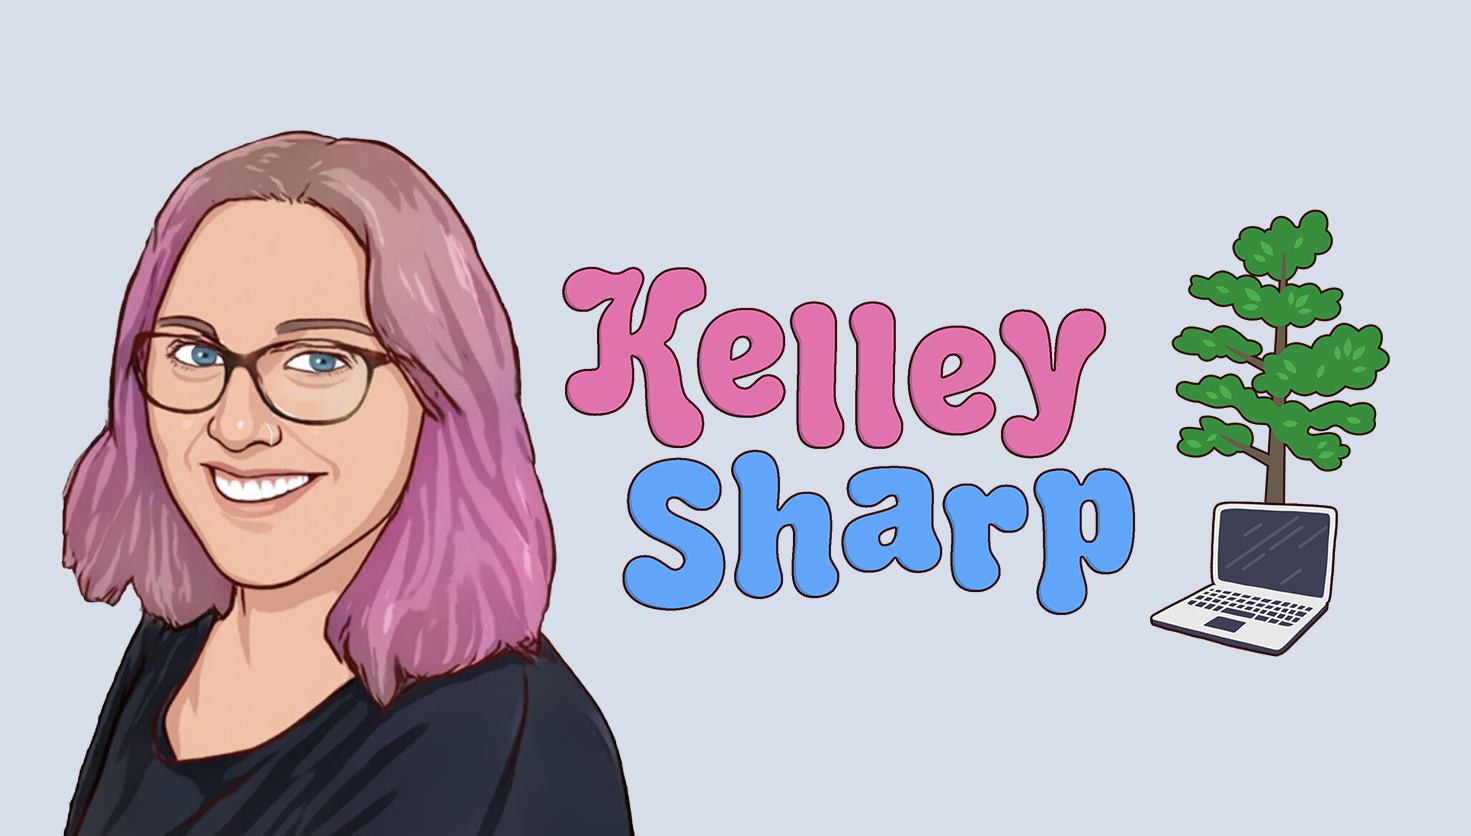
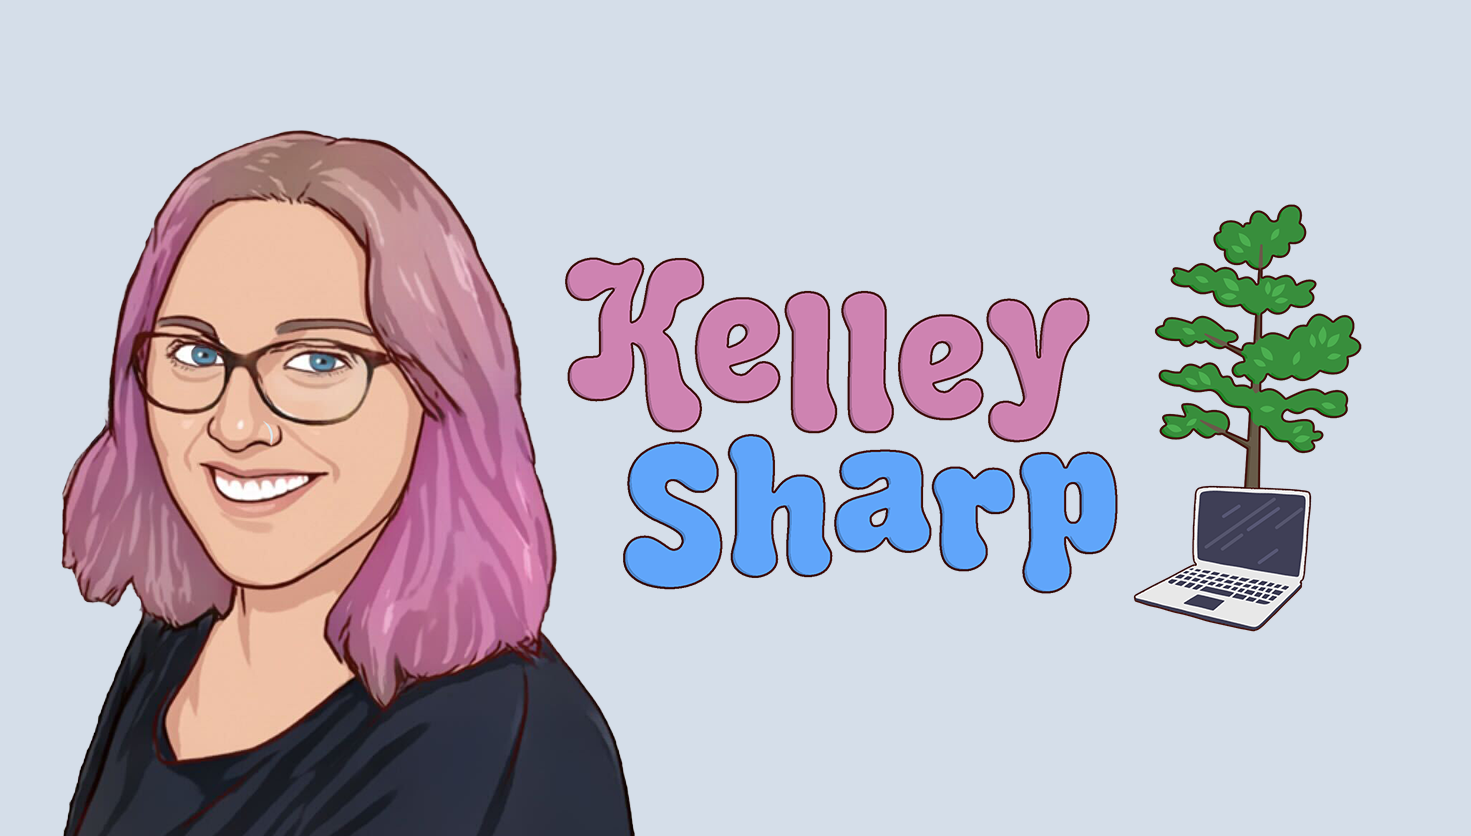
og image

Changed region(s): [[0.3671, 0.2488, 0.9483, 0.8086]]

diff --git a/src/app/components/my-logo.tsx b/src/app/components/my-logo.tsx
@@ -6,7 +6,7 @@ export function MyLogo({ className, size }: MyLogoProps) {
   return (
     <section style={{ width: 300 }} className={className}>
       <CldImage
-        src="blog/vm5jhozsfzoadzfhl1yn"
+        src="blog/oqdshwtaox54akkevzjw"
         width={size ? size : 600}
         height={size ? size : 339}
         alt="Kelley Sharp's Logo"
